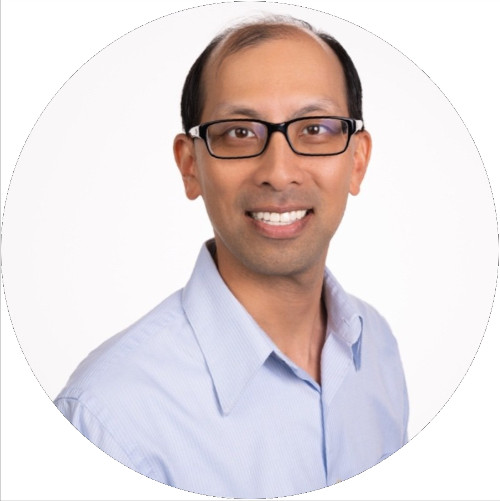
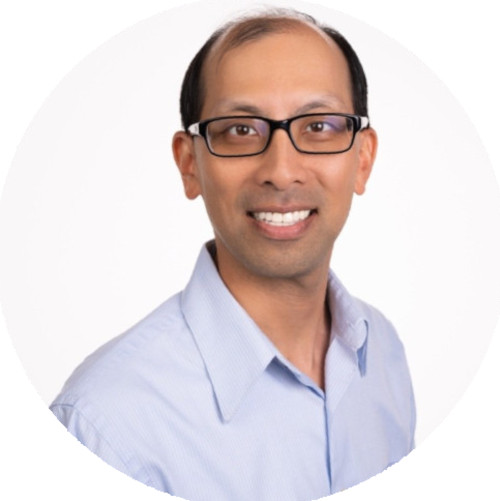
Deploying to gh-pages from @ The-RIIPL-lab/The-RIIPL-lab.github.io@7e36946d33604673767969fb76f3d2893270e9bc 🚀

diff --git a/2019/01/07/example-post-1.html b/2019/01/07/example-post-1.html
@@ -62,10 +62,10 @@
 
   <meta name="author" content="sarah-johnson">
   <meta property="og:type" content="article">
-  <meta property="og:updated_time" content="2024-04-04T16:20:06+00:00">
+  <meta property="og:updated_time" content="2024-04-04T16:41:03+00:00">
   <meta property="article:published_time" content="2019-01-07T00:00:00+00:00">
-  <meta property="article:modified_time" content="2024-04-04T16:20:06+00:00">
-  <meta name="revised" content="2024-04-04T16:20:06+00:00">
+  <meta property="article:modified_time" content="2024-04-04T16:41:03+00:00">
+  <meta name="revised" content="2024-04-04T16:41:03+00:00">
 
 
 <script type="application/ld+json">
@@ -75,7 +75,7 @@
       "@type": "BlogPosting",
       "author": { "@type": "Person", "name": "Example post 1" },
       "datePublished": "2019-01-07T00:00:00+00:00",
-      "dateModified": "2024-04-04T16:20:06+00:00",
+      "dateModified": "2024-04-04T16:41:03+00:00",
     
     "name": "Example post 1",
     "description": "The Radiology Informatics and Image Processing Laboratory. This is the GitHub Website for the WFU RIIPL lab located in Winston-Salem, NC USA",

diff --git a/2021/09/30/example-post-2.html b/2021/09/30/example-post-2.html
@@ -62,10 +62,10 @@
 
   <meta name="author" content="jane-smith">
   <meta property="og:type" content="article">
-  <meta property="og:updated_time" content="2024-04-04T16:20:06+00:00">
+  <meta property="og:updated_time" content="2024-04-04T16:41:03+00:00">
   <meta property="article:published_time" content="2021-09-30T00:00:00+00:00">
-  <meta property="article:modified_time" content="2024-04-04T16:20:06+00:00">
-  <meta name="revised" content="2024-04-04T16:20:06+00:00">
+  <meta property="article:modified_time" content="2024-04-04T16:41:03+00:00">
+  <meta name="revised" content="2024-04-04T16:41:03+00:00">
 
 
 <script type="application/ld+json">
@@ -75,7 +75,7 @@
       "@type": "BlogPosting",
       "author": { "@type": "Person", "name": "Example post 2" },
       "datePublished": "2021-09-30T00:00:00+00:00",
-      "dateModified": "2024-04-04T16:20:06+00:00",
+      "dateModified": "2024-04-04T16:41:03+00:00",
     
     "name": "Example post 2",
     "description": "The Radiology Informatics and Image Processing Laboratory. This is the GitHub Website for the WFU RIIPL lab located in Winston-Salem, NC USA",

diff --git a/2023/02/23/example-post-3.html b/2023/02/23/example-post-3.html
@@ -62,10 +62,10 @@
 
   <meta name="author" content="john-doe">
   <meta property="og:type" content="article">
-  <meta property="og:updated_time" content="2024-04-04T16:20:06+00:00">
+  <meta property="og:updated_time" content="2024-04-04T16:41:03+00:00">
   <meta property="article:published_time" content="2023-02-23T00:00:00+00:00">
-  <meta property="article:modified_time" content="2024-04-04T16:20:06+00:00">
-  <meta name="revised" content="2024-04-04T16:20:06+00:00">
+  <meta property="article:modified_time" content="2024-04-04T16:41:03+00:00">
+  <meta name="revised" content="2024-04-04T16:41:03+00:00">
 
 
 <script type="application/ld+json">
@@ -75,7 +75,7 @@
       "@type": "BlogPosting",
       "author": { "@type": "Person", "name": "Example post 3" },
       "datePublished": "2023-02-23T00:00:00+00:00",
-      "dateModified": "2024-04-04T16:20:06+00:00",
+      "dateModified": "2024-04-04T16:41:03+00:00",
     
     "name": "Example post 3",
     "description": "The Radiology Informatics and Image Processing Laboratory. This is the GitHub Website for the WFU RIIPL lab located in Winston-Salem, NC USA",

diff --git a/testbed.html b/testbed.html
@@ -1987,7 +1987,7 @@ It was the spring of hope, it was the winter of despair.</p>
 
 <div class="portrait-wrapper">
   <a href="/members/Melanie_Wilder.html" class="portrait" data-style="" aria-label="Melanie Wilder">
-    <img src="/images/photo.jpg" class="portrait-image" alt="member portrait" loading="lazy" onerror="this.src = '/images/fallback.svg'; this.onerror = null;">
+    <img src="/images/staff_photos/melanie_wilder.jpg" class="portrait-image" alt="member portrait" loading="lazy" onerror="this.src = '/images/fallback.svg'; this.onerror = null;">
 
     
       <span class="portrait-text">

diff --git a/team/index.html b/team/index.html
@@ -649,7 +649,7 @@
 
 <div class="portrait-wrapper">
   <a href="/members/Melanie_Wilder.html" class="portrait" data-style="" aria-label="Melanie Wilder">
-    <img src="/images/photo.jpg" class="portrait-image" alt="member portrait" loading="lazy" onerror="this.src = '/images/fallback.svg'; this.onerror = null;">
+    <img src="/images/staff_photos/melanie_wilder.jpg" class="portrait-image" alt="member portrait" loading="lazy" onerror="this.src = '/images/fallback.svg'; this.onerror = null;">
 
     
       <span class="portrait-text">

diff --git a/members/Melanie_Wilder.html b/members/Melanie_Wilder.html
@@ -390,7 +390,7 @@
   
 <div class="portrait-wrapper">
   <a class="portrait" data-style="" aria-label="Melanie Wilder">
-    <img src="/images/photo.jpg" class="portrait-image" alt="member portrait" loading="lazy" onerror="this.src = '/images/fallback.svg'; this.onerror = null;">
+    <img src="/images/staff_photos/melanie_wilder.jpg" class="portrait-image" alt="member portrait" loading="lazy" onerror="this.src = '/images/fallback.svg'; this.onerror = null;">
 
     
       <span class="portrait-text">
